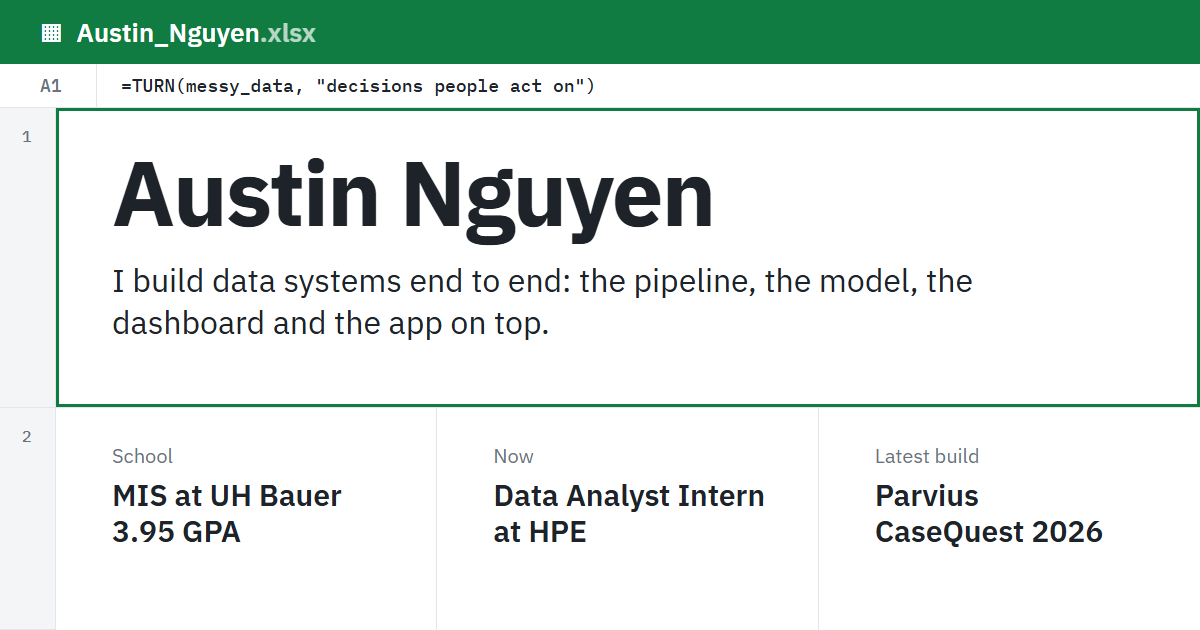
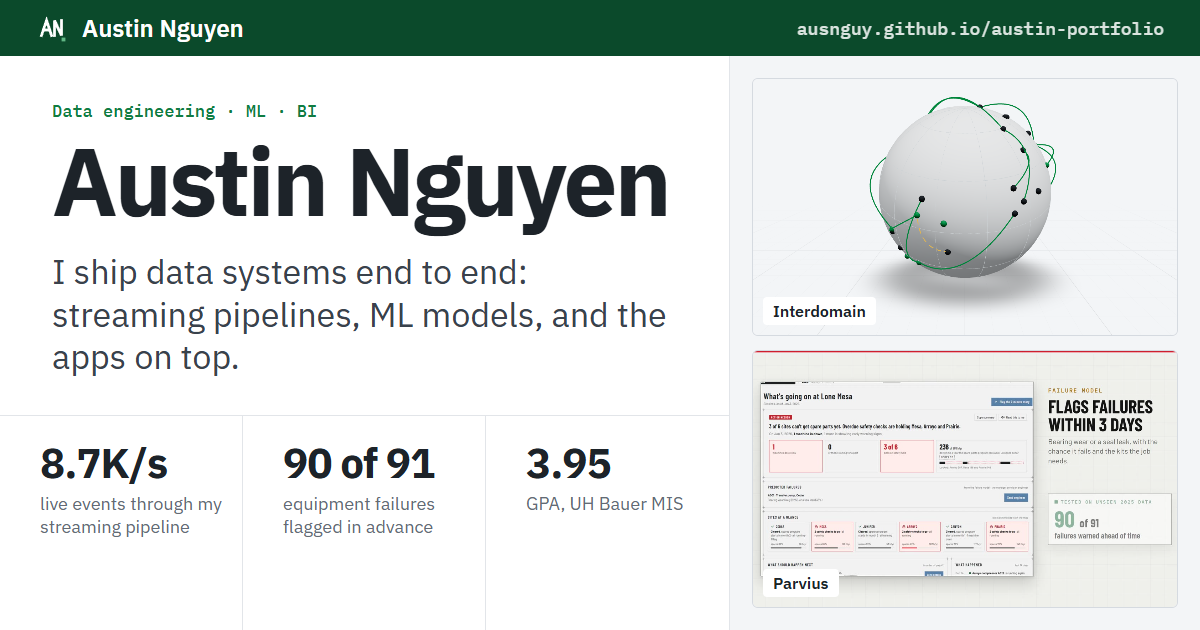
New link preview / LinkedIn thumbnail
Replaces the spreadsheet-only preview with the name, tagline, three proof
numbers and the Interdomain and Parvius visuals. The image URL is versioned
(og.png?v=2) so LinkedIn and other scrapers fetch it fresh.

Changed region(s): [[0.0, 0.0, 1.0, 0.9651], [0.0308, 0.6937, 0.37, 0.8746], [0.0, 0.9952, 0.0617, 1.0]]

diff --git a/tools/social/og.html b/tools/social/og.html
@@ -1,5 +1,5 @@
 <!doctype html>
-<!-- Source for public/og.png (1200×630 link preview). Render with tools/social/render.cjs. -->
+<!-- Source for public/og.png (1200x630 link preview and LinkedIn thumbnail). Render with tools/social/render.cjs. -->
 <html lang="en">
 <head>
 <meta charset="utf-8">
@@ -7,41 +7,44 @@
 <style>
   * { box-sizing: border-box; margin: 0; }
   body { width: 1200px; height: 630px; background: #f3f5f7; font-family: 'IBM Plex Sans', sans-serif; color: #1d2329; overflow: hidden; }
-  .bar { height: 64px; background: #107c41; color: #fff; display: flex; align-items: center; gap: 14px; padding: 0 40px; font-size: 26px; font-weight: 600; }
-  .bar span { opacity: .7; }
-  .fx { height: 44px; background: #fff; border-bottom: 1px solid #e2e5e9; display: flex; align-items: center; font: 500 18px 'IBM Plex Mono', monospace; }
-  .fx .ref { width: 96px; padding-left: 40px; color: #6a737d; }
-  .fx .f { padding-left: 24px; border-left: 1px solid #e2e5e9; height: 100%; display: flex; align-items: center; }
-  .grid { display: grid; grid-template-columns: 56px 1fr; background: #fff; height: 522px; }
-  .rows { background: #f3f5f7; border-right: 1px solid #e2e5e9; font: 500 16px 'IBM Plex Mono', monospace; color: #6a737d; display: grid; grid-template-rows: 300px 1fr; }
-  .rows div { padding: 18px 0 0 22px; border-bottom: 1px solid #e2e5e9; }
-  .body { display: grid; grid-template-rows: 300px 1fr; }
-  .hero { padding: 38px 56px; border-bottom: 1px solid #e2e5e9; position: relative; }
-  .hero::after { content: ''; position: absolute; inset: 0; box-shadow: inset 0 0 0 3px #107c41; }
-  h1 { font-size: 92px; font-weight: 700; letter-spacing: -2px; line-height: 1; }
-  .tag { margin-top: 22px; font-size: 32px; line-height: 1.3; max-width: 980px; }
-  .cells { display: grid; grid-template-columns: repeat(3, 1fr); }
-  .cells > div { padding: 34px 40px 0 56px; border-right: 1px solid #e2e5e9; }
-  .cells > div:last-child { border-right: 0; }
-  .k { font-size: 20px; color: #6a737d; }
-  .v { margin-top: 8px; font-size: 30px; font-weight: 600; line-height: 1.2; }
+  .bar { height: 56px; background: #0b4a2b; color: #fff; display: flex; align-items: center; gap: 14px; padding: 0 36px; font-size: 24px; font-weight: 600; }
+  .bar img { width: 32px; height: 32px; border-radius: 7px; }
+  .bar .url { margin-left: auto; font: 500 18px 'IBM Plex Mono', monospace; opacity: .85; }
+  .main { display: grid; grid-template-columns: 1fr 470px; height: 574px; background: #fff; }
+  .left { display: grid; grid-template-rows: 360px 1fr; border-right: 1px solid #e2e5e9; }
+  .hero { padding: 44px 52px 0; border-bottom: 1px solid #e2e5e9; }
+  .kicker { font: 500 17px 'IBM Plex Mono', monospace; color: #107c41; }
+  h1 { margin-top: 10px; font-size: 96px; font-weight: 700; letter-spacing: -3px; line-height: 1; }
+  .tag { margin-top: 22px; font-size: 34px; line-height: 1.25; max-width: 640px; color: #39424c; }
+  .stats { display: grid; grid-template-columns: repeat(3, 1fr); }
+  .stats > div { padding: 26px 18px 0 40px; border-right: 1px solid #e2e5e9; }
+  .stats > div:last-child { border-right: 0; }
+  .v { font-size: 42px; font-weight: 700; letter-spacing: -1px; line-height: 1; white-space: nowrap; }
+  .k { margin-top: 8px; font-size: 18px; line-height: 1.3; color: #636b75; }
+  .right { padding: 22px; display: grid; grid-template-rows: 1fr 1fr; gap: 14px; background: #f3f5f7; }
+  .shot { position: relative; border: 1px solid #d5dae0; border-radius: 6px; overflow: hidden; background: #10161d; }
+  .shot img { width: 100%; height: 100%; object-fit: cover; display: block; }
+  .shot span { position: absolute; left: 10px; bottom: 10px; background: #fff; color: #1d2329; font-size: 16px; font-weight: 600; padding: 4px 10px; border-radius: 4px; }
 </style>
 </head>
 <body>
-  <div class="bar"><b>▦</b><div>Austin_Nguyen<span>.xlsx</span></div></div>
-  <div class="fx"><div class="ref">A1</div><div class="f">=TURN(messy_data, "decisions people act on")</div></div>
-  <div class="grid">
-    <div class="rows"><div>1</div><div>2</div></div>
-    <div class="body">
+  <div class="bar"><img src="../../public/favicon.svg" alt=""><div>Austin Nguyen</div><div class="url">ausnguy.github.io/austin-portfolio</div></div>
+  <div class="main">
+    <div class="left">
       <div class="hero">
+        <div class="kicker">Data engineering · ML · BI</div>
         <h1>Austin Nguyen</h1>
-        <p class="tag">I build data systems end to end: the pipeline, the model, the dashboard and the app on top.</p>
+        <p class="tag">I ship data systems end to end: streaming pipelines, ML models, and the apps on top.</p>
       </div>
-      <div class="cells">
-        <div><div class="k">School</div><div class="v">MIS at UH Bauer<br>3.95 GPA</div></div>
-        <div><div class="k">Now</div><div class="v">Data Analyst Intern<br>at HPE</div></div>
-        <div><div class="k">Latest build</div><div class="v">Parvius<br>CaseQuest 2026</div></div>
+      <div class="stats">
+        <div><div class="v">8.7K/s</div><div class="k">live events through my streaming pipeline</div></div>
+        <div><div class="v">90 of 91</div><div class="k">equipment failures flagged in advance</div></div>
+        <div><div class="v">3.95</div><div class="k">GPA, UH Bauer MIS</div></div>
       </div>
+    </div>
+    <div class="right">
+      <div class="shot"><img src="../../public/thumbs/interdomain.png" alt=""><span>Interdomain</span></div>
+      <div class="shot"><img src="../../public/casequest/loop-poster.jpg" alt=""><span>Parvius</span></div>
     </div>
   </div>
 </body>

diff --git a/index.html b/index.html
@@ -14,12 +14,12 @@
     <meta property="og:url" content="https://ausnguy.github.io/austin-portfolio/" />
     <meta property="og:title" content="Austin Nguyen | Data systems, end to end" />
     <meta property="og:description" content="MIS at the University of Houston (3.95 GPA) and Data Analyst Intern at HPE. Pipelines, ML models, dashboards and the apps on top." />
-    <meta property="og:image" content="https://ausnguy.github.io/austin-portfolio/og.png" />
+    <meta property="og:image" content="https://ausnguy.github.io/austin-portfolio/og.png?v=2" />
     <meta property="og:image:width" content="1200" />
     <meta property="og:image:height" content="630" />
-    <meta property="og:image:alt" content="Austin Nguyen's portfolio, styled as a spreadsheet: I build data systems end to end." />
+    <meta property="og:image:alt" content="Austin Nguyen: I ship data systems end to end. 8.7K events per second, 90 of 91 failures flagged, 3.95 GPA. Shows the Interdomain and Parvius projects." />
     <meta name="twitter:card" content="summary_large_image" />
-    <meta name="twitter:image" content="https://ausnguy.github.io/austin-portfolio/og.png" />
+    <meta name="twitter:image" content="https://ausnguy.github.io/austin-portfolio/og.png?v=2" />
     <meta name="description" content="Austin Nguyen builds data systems end to end: pipelines, ML models, dashboards and the apps on top. Projects, experience, and a local AI you can ask about Austin." />
     <script>
       // Light by default; dark only if the visitor chose it with the toggle. Runs before first paint so there is no flash.
